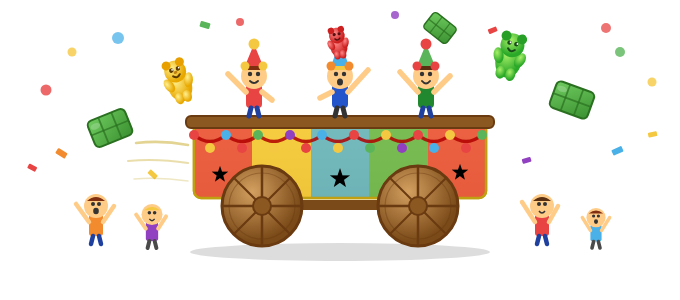
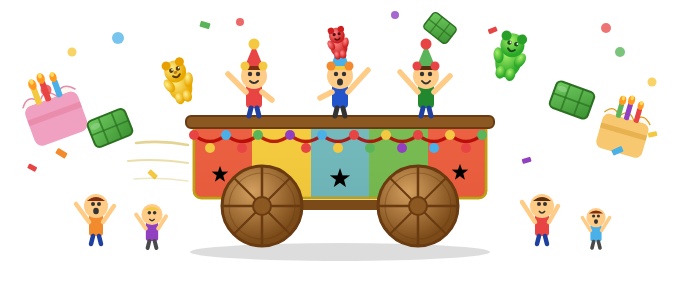
Add flying cakes to Karneval, enlarge karte wagon
- Zwei Kuchen mit Kerzen und Flammen fliegen links und rechts (fg.html,
  modal SVG, neu gerendertes schokolade.png)
- Karte: Wagen größer (252×111 → 306×135), Position leicht angepasst

Changed region(s): [[0.0309, 0.24, 0.1544, 0.48], [0.8647, 0.3, 0.9574, 0.54]]

diff --git a/js/main.js b/js/main.js
@@ -1179,6 +1179,38 @@ function schokoladeSVG() {
       <ellipse cx="0" cy="-33" rx="2.5" ry="3" fill="#333"/>
     </g>
 
+    <!-- Kuchen 1 (links oben, fliegend) -->
+    <g transform="translate(54,112) rotate(-20)">
+      <rect x="-28" y="-14" width="56" height="42" rx="8" fill="#f0a0c0"/>
+      <path d="M-28,-14 Q-19,-27 -10,-14 Q-1,-27 8,-14 Q17,-27 28,-14" fill="#fff8f0" stroke="#e090b0" stroke-width="1.5"/>
+      <rect x="-28" y="-1" width="56" height="6" fill="#e07090" opacity="0.4"/>
+      <rect x="-14" y="-30" width="6" height="18" fill="#f5c842" rx="2"/>
+      <rect x="-4" y="-33" width="6" height="21" fill="#e84444" rx="2"/>
+      <rect x="8" y="-30" width="6" height="18" fill="#4ab0e8" rx="2"/>
+      <ellipse cx="-11" cy="-33" rx="4" ry="5.5" fill="#ff9920"/>
+      <ellipse cx="-11" cy="-36" rx="2" ry="2.8" fill="#ffe060" opacity="0.9"/>
+      <ellipse cx="-1" cy="-36" rx="4" ry="5.5" fill="#ff9920"/>
+      <ellipse cx="-1" cy="-39" rx="2" ry="2.8" fill="#ffe060" opacity="0.9"/>
+      <ellipse cx="11" cy="-33" rx="3.5" ry="5" fill="#ff9920"/>
+      <ellipse cx="11" cy="-36" rx="2" ry="2.5" fill="#ffe060" opacity="0.9"/>
+    </g>
+
+    <!-- Kuchen 2 (rechts, fliegend) -->
+    <g transform="translate(624,130) rotate(16) scale(0.85)">
+      <rect x="-28" y="-14" width="56" height="42" rx="8" fill="#f8c870"/>
+      <path d="M-28,-14 Q-19,-27 -10,-14 Q-1,-27 8,-14 Q17,-27 28,-14" fill="#fff8f0" stroke="#d8a020" stroke-width="1.5"/>
+      <rect x="-28" y="-1" width="56" height="6" fill="#d09020" opacity="0.4"/>
+      <rect x="-14" y="-30" width="6" height="18" fill="#5ab55a" rx="2"/>
+      <rect x="-4" y="-33" width="6" height="21" fill="#9040c0" rx="2"/>
+      <rect x="8" y="-30" width="6" height="18" fill="#e84444" rx="2"/>
+      <ellipse cx="-11" cy="-33" rx="4" ry="5.5" fill="#ff9920"/>
+      <ellipse cx="-11" cy="-36" rx="2" ry="2.8" fill="#ffe060" opacity="0.9"/>
+      <ellipse cx="-1" cy="-36" rx="4" ry="5.5" fill="#ff9920"/>
+      <ellipse cx="-1" cy="-39" rx="2" ry="2.8" fill="#ffe060" opacity="0.9"/>
+      <ellipse cx="11" cy="-33" rx="3.5" ry="5" fill="#ff9920"/>
+      <ellipse cx="11" cy="-36" rx="2" ry="2.5" fill="#ffe060" opacity="0.9"/>
+    </g>
+
     <!-- Gummibär gelb -->
     <g transform="translate(178,80) rotate(-18)">
       <ellipse cx="0" cy="6" rx="12" ry="16" fill="url(#sch-by)"/>

diff --git a/index.html b/index.html
@@ -410,12 +410,12 @@
       <!--  SCHOKOLADE – Karnevalsumzug auf der Straße       -->
       <!-- ══════════════════════════════════════════════════ -->
       <g class="karte-hotspot" onclick="oeffneOrt('schokolade')">
-        <!-- PNG 680×300, skaliert auf 252×111, auf der Straße zw. Bauernhof und Büro -->
-        <image href="img/schokolade.png" x="530" y="320" width="252" height="111" preserveAspectRatio="xMidYMid meet"/>
-        <rect x="530" y="320" width="252" height="111" fill="transparent"/>
+        <!-- PNG 680×300, skaliert auf 306×135, auf der Straße zw. Bauernhof und Büro -->
+        <image href="img/schokolade.png" x="490" y="306" width="306" height="135" preserveAspectRatio="xMidYMid meet"/>
+        <rect x="490" y="306" width="306" height="135" fill="transparent"/>
         <g class="hover-label">
-          <rect x="570" y="398" width="170" height="26" rx="13" fill="#2c3e50e0"/>
-          <text x="655" y="416" font-family="Nunito" font-weight="800" font-size="13" fill="white" text-anchor="middle">🎉 Schokolade</text>
+          <rect x="548" y="404" width="170" height="26" rx="13" fill="#2c3e50e0"/>
+          <text x="633" y="422" font-family="Nunito" font-weight="800" font-size="13" fill="white" text-anchor="middle">🎉 Schokolade</text>
         </g>
       </g>
 
